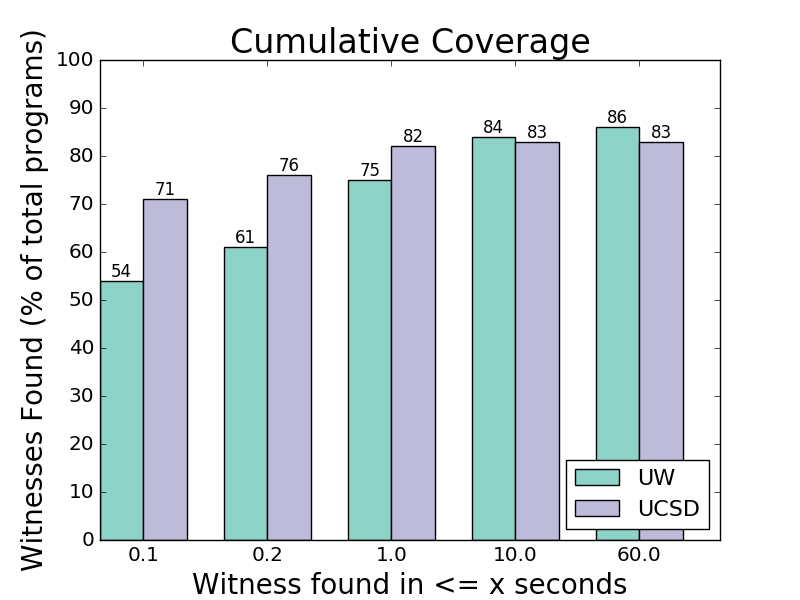
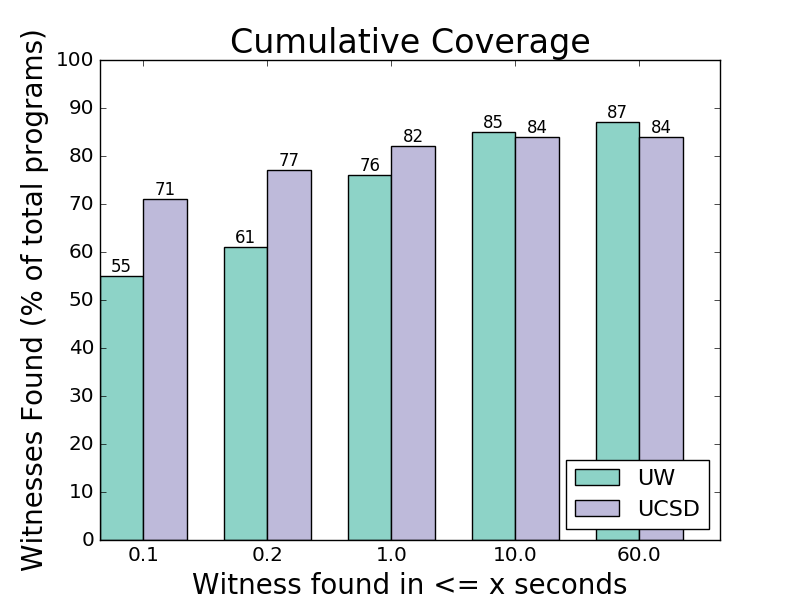
tweak numbers...

diff --git a/paper/jfp-submission/evaluation.tex b/paper/jfp-submission/evaluation.tex
@@ -118,8 +118,8 @@ in the program, and thus valuable feedback for the user.
 }
 \vspace{3ex}
 \caption{Results of our coverage testing and the distribution of test
-  outcomes. Our random search successfully finds witnesses for 75--82\% of
-  the programs in under one second, improving to 84\% in under
+  outcomes. Our random search successfully finds witnesses for 76--82\% of
+  the programs in under one second, improving to 84--85\% in under
   10 seconds. In both datasets we detect actual type errors at least 75\%
   of the time, unbound variables or constructors 4--5\% of the time, and
   diverging loops 3\% of the time. For the remaining 13--16\% of the
@@ -132,10 +132,11 @@ in the program, and thus valuable feedback for the user.
 The results of our experiments are summarized in
 Figure~\ref{fig:results-witness}.
 %
-In both datasets our tool was able to find a witness for at least 75\% of the
+In both datasets our tool was able to find a witness for over 75\% of the
 programs in under one second, \ie\ fast enough to be integrated as a
 compile-time check. If we extend our tolerance to a 10 second timeout,
-we hit a maximum of 83--86\% coverage.
+we reach 84--85\% coverage, and if we allow a 60 second search,
+we hit a maximum of 84--87\% coverage.
 %
 Interestingly, while the vast majority of witnesses corresponded to a
 type-error, as expected, 4--5\% triggered an unbound variable error (even
@@ -188,7 +189,7 @@ trace using two metrics.
 \end{minipage}
 }
 \vspace{3ex}
-\caption{Complexity of the generated traces. 81\% of the combined traces
+\caption{Complexity of the generated traces. Over 80\% of the combined traces
   have a jump complexity of at most 10, with an average complexity of 7
   and a median of 5.}
 \label{fig:results-complexity}
@@ -199,12 +200,12 @@ trace using two metrics.
 The results of the experiment are summarized in
 Figure~\ref{fig:results-complexity}.
 %
-The average number of single-step reductions per trace is 31 for the
-\ucsdbench\ dataset (35 for the \uwbench\ dataset) with a maximum of
-2,745 (\resp 986) and a median of 17 (\resp 17).
+The average number of single-step reductions per trace is 30 for the
+\ucsdbench\ dataset (45 for the \uwbench\ dataset) with a maximum of
+2,745 (\resp 982) and a median of 14.5 (\resp 14.5).
 %
-The average number of jumps per trace is 7 (\resp 7) with a
-maximium of 353 (\resp 185) and a median of 4 (\resp 4).
+The average number of jumps per trace is 7 (\resp 10) with a
+maximium of 353 (\resp 221) and a median of 4 (\resp 4).
 %
 In both datasets 80\% or more traces have at most 10 jumps.
 

diff --git a/paper/jfp-submission/plots.py b/paper/jfp-submission/plots.py
@@ -42,7 +42,7 @@ def autolabel(ax, rects):
 def cumulative_coverage(data):
     headers = data[0]
     data = data[1:]
-    return [(l, int(100 * len([r for r in data
+    return [(l, round(100 * len([r for r in data
                                if float(r[2]) <= l
                                and r[4] in UNSAFE])
                           / float(len(data))))
@@ -367,10 +367,10 @@ def plot_distrib_extended(ucsd):
     rs_u = [len([r for r in ucsd[1:] if r[4] in o])
             for o in ALL_D_E] + [0,0,0]
     missed = rs_u[2]
-    rs_u[2] = int(missed * 0.44) # Non-parametric fun
-    rs_u[3] = int(missed * 0.12) # Dead code
-    rs_u[4] = int(missed * 0.28) # Safe call
-    rs_u[5] = int(missed * 0.16) # True miss
+    rs_u[2] = round(missed * 0.44) # Non-parametric fun
+    rs_u[3] = round(missed * 0.12) # Dead code
+    rs_u[4] = round(missed * 0.28) # Safe call
+    rs_u[5] = round(missed * 0.16) # True miss
 
     print ('rs_u', rs_u)
 

diff --git a/paper/jfp-submission/introduction.tex b/paper/jfp-submission/introduction.tex
@@ -168,12 +168,12 @@ The second is a new \ucsdbench\ data set, comprising \ucsdsize\
 ill-typed programs.
 %
 We show that for both data sets, our technique is able to generate
-witnesses for nearly 90\% of the programs, in under a second in the
+witnesses for around 85\% of the programs, in under a second in the
 vast majority of cases.
 %
 Furthermore, we show that a simple interactive strategy yields
-compact counterexample traces with at most 5 steps for 57\%
-of the programs, and at most 10 steps for 81\% of the programs.
+compact counterexample traces with at most 5 steps for 60\%
+of the programs, and at most 10 steps for over 80\% of the programs.
 
 The ultimate purpose of an error report is to help the programmer
 \emph{comprehend} and \emph{fix} problematic code.

diff --git a/paper/jfp-submission/abstract.tex b/paper/jfp-submission/abstract.tex
@@ -23,8 +23,8 @@
   on two data sets comprising over 4,500 ill-typed
   student programs.
   Our technique is able to generate witnesses for
-  88\% of the programs, and our reduction graph
-  yields small counterexamples for 81\% of the witnesses.
+  around 85\% of the programs, and our reduction graph
+  yields small counterexamples for over 80\% of the witnesses.
   %
   Finally, we evaluate whether our witnesses help
   students understand and fix type errors, and
